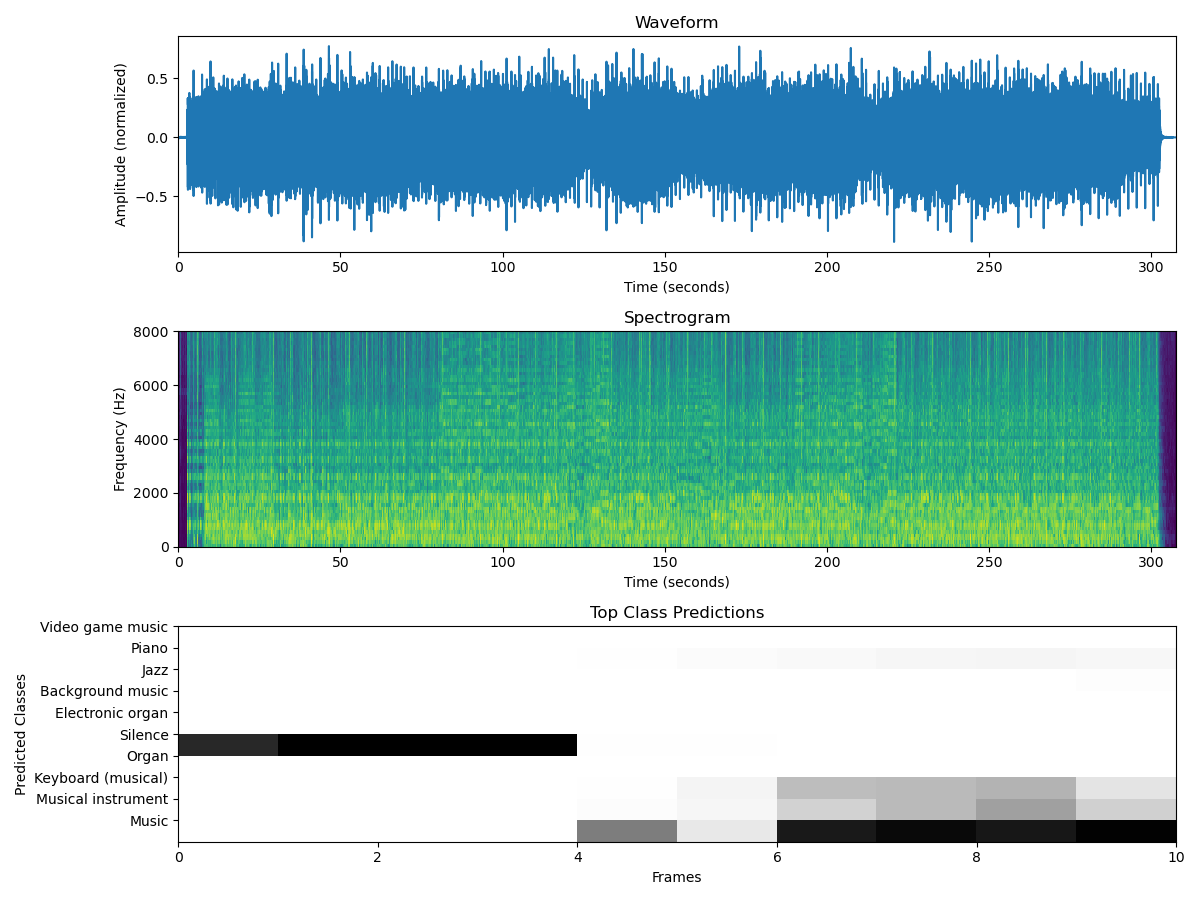
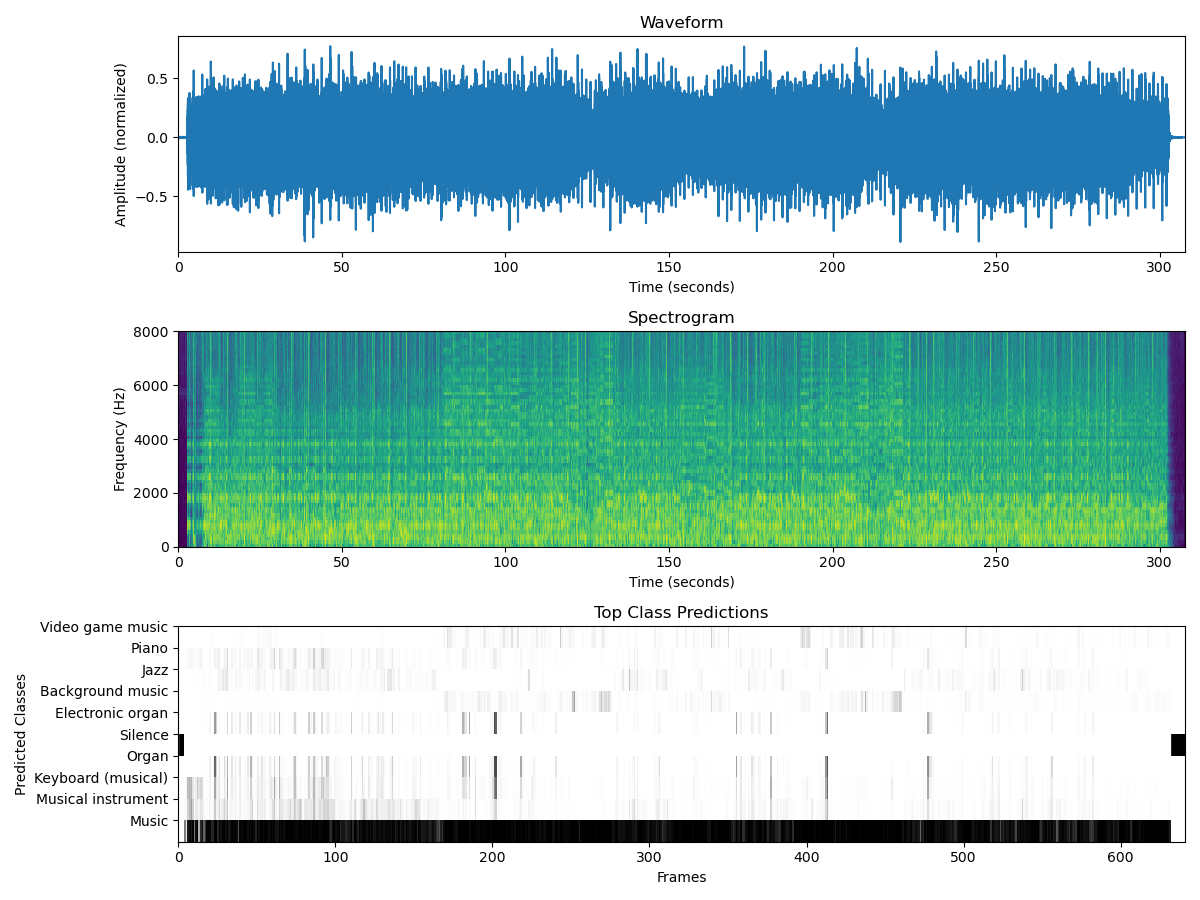
yament

diff --git a/models/YAMNet/yamnet_predict_segment_v5.py b/models/YAMNet/yamnet_predict_segment_v5.py
@@ -80,7 +80,7 @@ class YAMNetClassifier:
         frames = np.arange(scores_np.shape[0])
 
         # Limit to the first 10 frames
-        frame_limit = min(10, scores_np.shape[0])
+        frame_limit = scores_np.shape[0]
 
         # Flip class order so that the most confident predictions appear at the top
         plt.imshow(scores_np[:frame_limit, top_class_indices].T, aspect='auto', interpolation='nearest', cmap='gray_r',
